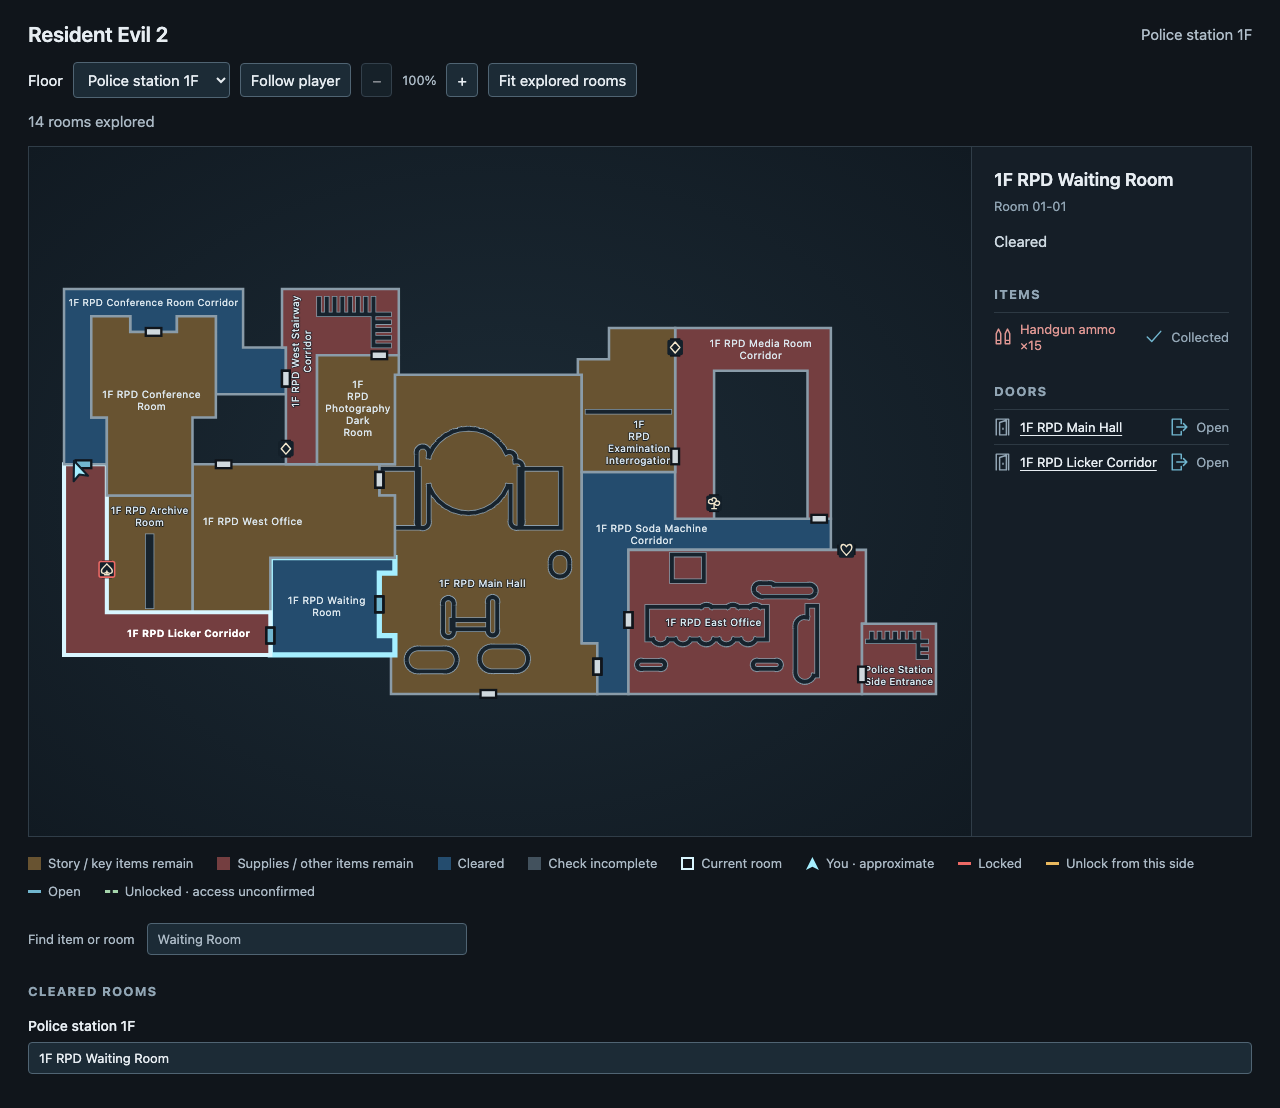
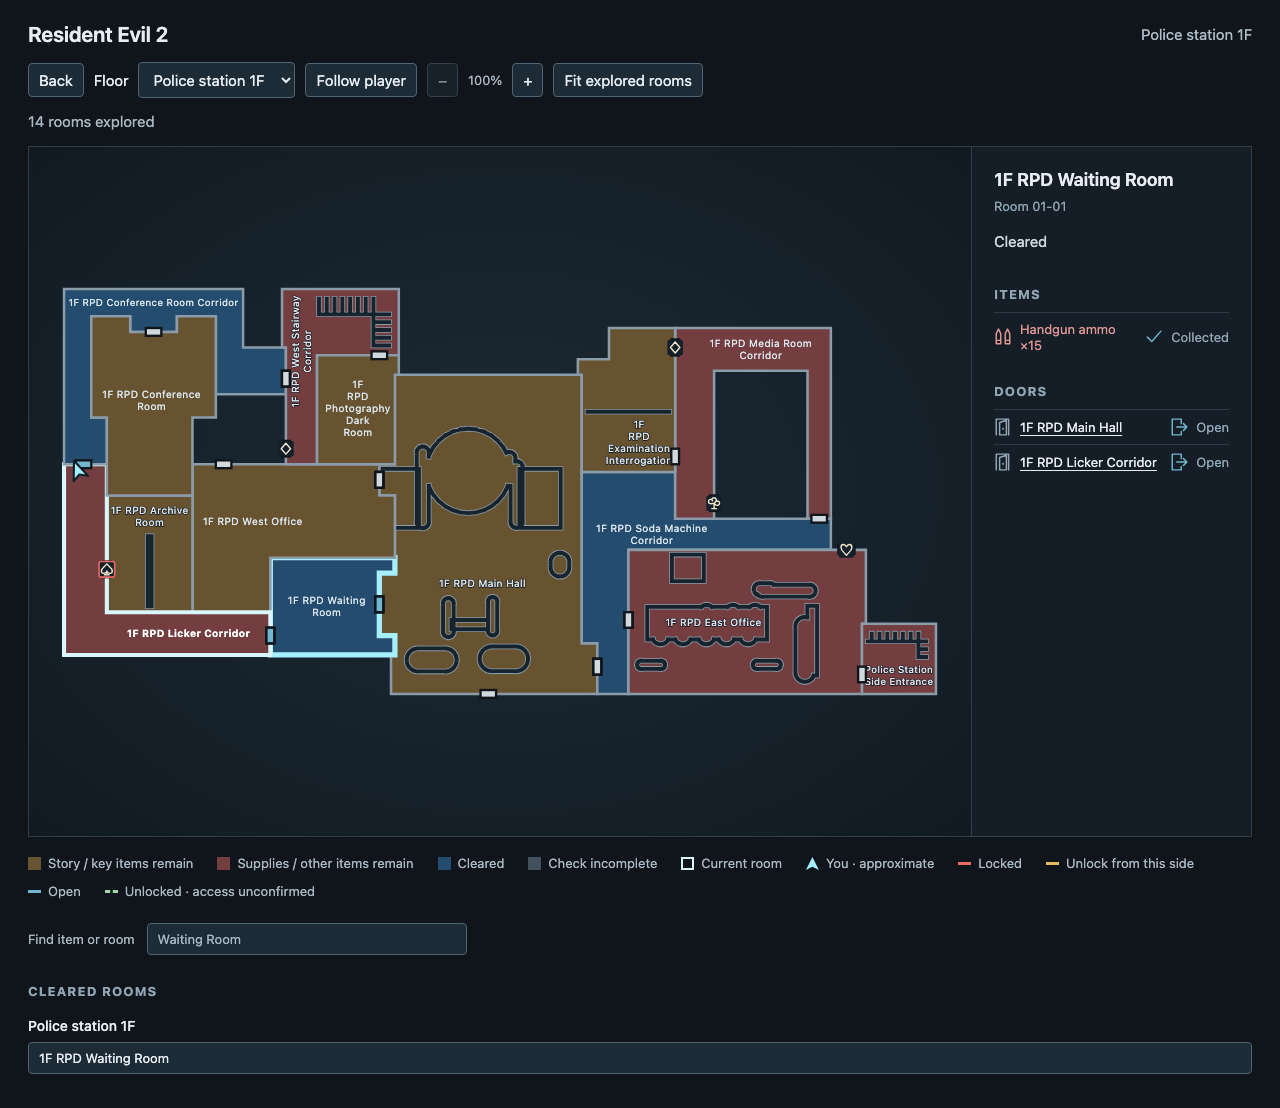
feat(ui): add back navigation for map inspections
Author: gpt-6.1-sol

Changed region(s): [[0.0, 0.0307, 0.5625, 0.0921]]

diff --git a/src/ui/map_view.py b/src/ui/map_view.py
@@ -290,7 +290,7 @@ li > span:last-child { color:#94a7b6; text-align:right; }
 </head>
 <body>
 <header><h1>__GAME_TITLE__</h1><span id="place"></span></header>
-<nav id="map-controls" aria-label="Map controls"><label for="floor">Floor</label><select id="floor" disabled></select><button id="current-room" type="button" aria-pressed="false" disabled>Follow player</button><span id="zoom-controls" role="group" aria-label="Map zoom"><button id="zoom-out" type="button" aria-label="Zoom out" disabled>−</button><output id="zoom-level" aria-label="Zoom level"></output><button id="zoom-in" type="button" aria-label="Zoom in" disabled>+</button></span><button id="fit-rooms" type="button" disabled>Fit explored rooms</button></nav>
+<nav id="map-controls" aria-label="Map controls"><button id="back-room" type="button" aria-label="Back to previous room" disabled>Back</button><label for="floor">Floor</label><select id="floor" disabled></select><button id="current-room" type="button" aria-pressed="false" disabled>Follow player</button><span id="zoom-controls" role="group" aria-label="Map zoom"><button id="zoom-out" type="button" aria-label="Zoom out" disabled>−</button><output id="zoom-level" aria-label="Zoom level"></output><button id="zoom-in" type="button" aria-label="Zoom in" disabled>+</button></span><button id="fit-rooms" type="button" disabled>Fit explored rooms</button></nav>
 <div id="status" role="status">Waiting for game.</div>
 <main>
 <div id="map-shell"><svg id="map" role="group" tabindex="-1" aria-label="Explored rooms" aria-description="Arrow keys move the map. Plus and minus zoom. Zero fits explored rooms. You can also drag or use the mouse wheel."></svg></div>
@@ -324,6 +324,7 @@ const ns = 'http://www.w3.org/2000/svg';
 let selected = null;
 let selectedArea = null;
 let floorView = {mode:'follow'};
+let viewHistory = [];
 let lastState = null;
 let lastReportedError = '';
 let overviewKey = '';
@@ -331,6 +332,7 @@ const labelLayouts = new Map();
 let viewport = {mode:'empty'};
 let pan = {mode:'idle'};
 let suppressMapClick = false;
+const backRoomButton = document.getElementById('back-room');
 const floorSelect = document.getElementById('floor');
 const itemSearch = document.getElementById('item-search');
 const currentRoomButton = document.getElementById('current-room');
@@ -347,11 +349,13 @@ itemSearch.addEventListener('keydown',event=>{
   }
 });
 floorSelect.addEventListener('change',()=>{
+  rememberView();
   floorView={mode:'browse',area:floorSelect.value};
   selected=null;
   draw(lastState);
 });
 currentRoomButton.addEventListener('click',()=>{
+  viewHistory=[];
   floorView={mode:'follow'};
   selected=null;
   endPan();
@@ -359,9 +363,37 @@ currentRoomButton.addEventListener('click',()=>{
   viewport={mode:'empty'};
   draw(lastState);
 });
+function rememberView() {
+  // Interrupted maps retain room outlines, but those clicks cannot add a readable view to history.
+  if(lastState===null || lastState.status!=='display') return;
+  if(selectedArea===null) throw new Error('Cannot record an uninitialized map view');
+  const room=svg.querySelector('.room.selected');
+  if(!room && selectedArea!==lastState.area) throw new Error('Only the current room can have an unoutlined view');
+  const view=room ? {kind:'outline',area:selectedArea,id:room.dataset.region} : {kind:'details',area:selectedArea,id:lastState.map_region,room:lastState.current};
+  // Snapshots retain display choices so Back can render fresh game-derived state.
+  viewHistory.push({...view,viewport:structuredClone(viewport)});
+}
+backRoomButton.addEventListener('click',()=>{
+  if(lastState===null || lastState.status!=='display' || viewHistory.length===0) throw new Error('Back requires readable inspection history');
+  const previous=viewHistory.pop();
+  endPan();
+  floorView={mode:'browse',area:previous.area};
+  selectedArea=previous.area;selected=previous.id;viewport=previous.viewport;
+  draw(lastState);
+  focusInspectedRoom();
+});
 function applyViewport() {
   const ready=lastState!==null && lastState.status==='display';
   const navigable=ready && viewport.mode!=='empty';
+  if(ready) {
+    const room=svg.querySelector('.room.selected'),id=room ? room.dataset.region : lastState.map_region;
+    // Reselecting the displayed view should not add a Back step.
+    while(viewHistory.length && viewHistory.at(-1).area===selectedArea && viewHistory.at(-1).id===id) viewHistory.pop();
+  }
+  // Disabling a focused control would otherwise drop keyboard focus onto the page.
+  const focusedBack=document.activeElement===backRoomButton;
+  backRoomButton.disabled=!ready || viewHistory.length===0;
+  if(focusedBack && backRoomButton.disabled) document.getElementById('room-name').focus({preventScroll:true});
   const following=ready && floorView.mode==='follow' && selected===null;
   currentRoomButton.setAttribute('aria-pressed',String(following));
   currentRoomButton.disabled=!ready || following && viewport.mode!=='manual';
@@ -622,6 +654,13 @@ function draw(state) {
     if(focusedDoor) document.getElementById('room-name').focus({preventScroll:true});
     return;
   }
+  const availableViews=new Map(Object.entries(state.explored_areas).map(([area,visits])=>[area,new Set(visits.map(visit=>visit.id))]));
+  viewHistory=viewHistory.filter(entry=>{
+    if(entry.kind==='outline') return availableViews.has(entry.area) && availableViews.get(entry.area).has(entry.id);
+    // Distinct unmapped rooms can share a region ID; details are valid only for that same current room.
+    if(entry.kind==='details') return entry.area===state.area && entry.id===state.map_region && entry.room===state.current;
+    throw new Error('Unknown inspection history view kind');
+  });
   if(floorView.mode==='browse' && !Object.hasOwn(state.explored_areas,floorView.area)) {
     // A new playthrough can remove the browsed floor. Resume following instead
     // of retaining geometry or verdicts from the previous exploration history.
@@ -739,10 +778,10 @@ function draw(state) {
     }
     label.setAttribute('transform','translate('+layout.center.join(' ')+') rotate('+layout.angle+') scale('+layout.scale+') translate('+layout.offset.join(' ')+')');
     setLines(layout.lines);
-    group.addEventListener('click',()=>{selected=id;draw(lastState);});
+    group.addEventListener('click',()=>{rememberView();selected=id;draw(lastState);});
     group.addEventListener('keydown',event=>{
       if(event.key==='Enter' || event.key===' ') {
-        event.preventDefault();selected=id;draw(lastState);
+        event.preventDefault();rememberView();selected=id;draw(lastState);
       }
     });
   }
@@ -882,6 +921,7 @@ function draw(state) {
   }
 }
 function inspectRoom(area,id) {
+  rememberView();
   endPan();
   floorView={mode:'browse',area};
   // A floor switch otherwise clears selection at the start of draw.
@@ -900,7 +940,11 @@ function inspectRoom(area,id) {
       applyViewport();
     }
   }
+  focusInspectedRoom();
+}
+function focusInspectedRoom() {
   document.querySelector('main').scrollIntoView({block:'start'});
+  const room=svg.querySelector('.room.selected');
   // An unoutlined current room has details but no SVG focus target.
   const target=room || document.getElementById('room-name');
   target.focus({preventScroll:true});

diff --git a/docs/testing/re2.md b/docs/testing/re2.md
@@ -2,6 +2,14 @@
 
 [Documentation index](../README.md) · [Testing index](../testing.md)
 
+## Back through room inspections
+
+The browser keeps session-local view identities and numeric viewport settings for room selections, door/item results and floor browsing. Back restores those views through the current publication. It stores no acquisition, completion, door or exploration values. Same-view repeats collapse; zoom, pan and live movement create no entry. Follow player clears the stack. Fresh reads prune unavailable views; interrupted tracking disables Back while retaining valid entries for recovery. Outlined views and current-room details are explicit alternatives, so distinct unmapped rooms cannot share an empty region identity.
+
+Run `bun tests/check_map_history_browser.mjs <python>`. Its RE1/RE2 fixtures cover fresh completion after Back, exact zoom/pan restoration, map selection, item results, cross-floor browsing and synthetic door inspection, repeated views, reset, interruption/recovery, removed history and unoutlined current-room return. Two development regressions expose lost focus when Back is disabled and a collision between different unmapped rooms; both now pass. The existing RE1, RE2, keyboard and refresh browser suites, 58 map/multi-area Python tests, scoped Ruff/formatting, local links and whitespace checks also pass. Private `/tmp/re-map-inspection-history-20261029/render-map.mjs` verifies desktop/mobile navigation from existing user exploration, returning through Back after zoom/drag with complete publication equality. The README image is refreshed. No native gameplay or tracking interpretation changes.
+
+Implemented and directly reviewed on 2026-10-29 by root, exact model `gpt-6.1-sol` from authoritative T3 runtime metadata. Review checks fresh-data admission, view identity, viewport restoration, history pruning, focus, disabled controls and responsive layout. External review providers remain disabled; no external endorsement is claimed.
+
 ## Door destination inspection
 
 Underlined destination names in Doors inspect rooms with an observed map view. A shared observed-room lookup and inspection action serve door buttons and all item/search results. They retain current-outline preference, floor switching, recentering, zoom bounds and room/details focus. Known names without recorded views remain text. Door access, acquisition and exploration stay unchanged. Focus is restored by source/target/observation identity after a live redraw, and returns to room details when the control disappears or tracking is interrupted.

diff --git a/README.md b/README.md
@@ -41,7 +41,7 @@ Door colors show access. Key symbols identify Sword, Armor, Shield and Helmet lo
 
 In RE2, a green open padlock shows a freshly confirmed unlock. A dashed frame means access is still unconfirmed; a red frame means the door is inactive. Unlock knowledge stays separate from being able to pass through the door now.
 
-Use **Floor** to browse explored floors. Click **Follow player** to stop inspecting a selected room and resume selecting each room you enter. The highlighted button shows when following is active.
+**Back** returns to the previous inspected room with its zoom and pan. Use **Floor** to browse explored floors. Click **Follow player** to stop inspecting a selected room and resume selecting each room you enter. The highlighted button shows when following is active.
 
 Use the mouse wheel or **+ / −** buttons to zoom, and drag the map to move it. **Fit explored rooms** shows the whole explored floor again. With the map focused, arrow keys move the view, plus/minus zoom, and zero fits explored rooms. Use Tab to focus the map or rooms, then Enter or Space to inspect a focused room. See [map controls](docs/map-controls.md).
 
@@ -71,4 +71,4 @@ python3 tools/track.py --profile profiles/re2_claire_b_slus00756.json --map
 
 Each revision and scenario has a separate exploration history. Keep RetroAchievements in Casual/Softcore mode when using the tracker and savestates. The [RE2 guide](docs/re2.md) lists the exact disc identities and validation limits.
 
-![RE2 map with cleared-room search and inspectable door destinations](docs/images/re2-map.png)
+![RE2 map with Back navigation, room search and inspectable door destinations](docs/images/re2-map.png)

diff --git a/docs/re2.md b/docs/re2.md
@@ -18,7 +18,7 @@ Default histories are `.local/re2-leon-a-slus00748.json` and `.local/re2-claire-
 
 Match the existing tracker behavior: spatial floor plans revealed by entering rooms, room names, actual facing, floor browsing, zoom and pan, persistent exploration isolated by game/revision/scenario/playthrough, remaining items, separate unresolved checks, game-derived door access, and fresh item/door/story state after savestate changes. Exploration survives earlier savestates; acquired items and unlocked doors must rewind with the game.
 
-The shared [map controls](map-controls.md) support keyboard panning, zoom and fit, alongside mouse controls and floor browsing.
+The shared [map controls](map-controls.md) support keyboard panning, zoom and fit, alongside mouse controls and floor browsing. [Back](map-controls.md#return-to-previous-inspections) retraces manual inspections with the chosen zoom/pan and fresh game state.
 
 [Shared-slot item presence](research/re2/shared-item-slots.md) reuses proven scenario exclusions when checking conflicting pickup identities. It recovers two Leon and three Claire remaining-item rules without deleting raw declarations or weakening live contradiction checks. One Leon pickup has native collection, departure/reentry and four exact savestate restores. A second has native collection and two current-state restores, with departure/reentry unverified. The Claire outcomes remain source-validated.
 

diff --git a/docs/map-controls.md b/docs/map-controls.md
@@ -23,3 +23,9 @@ Use **Find item or room** to filter remaining items and unresolved checks by the
 ## Inspect connected rooms
 
 Select an underlined destination in **Doors** to inspect its explored room. The tracker switches floors when needed and centers the recorded outline, retaining zoom when it fits. The room details receive focus when the current room has no outline. Door access continues to reflect game state. Destinations without a recorded map view stay as text. **Follow player** resumes tracking the room you enter.
+
+## Return to previous inspections
+
+**Back** retraces room selections, door/item results and floor browsing in the current browser session. It restores the previous zoom and pan while showing fresh items, completion and door access. Zooming, panning and live player movement do not add entries. Repeatedly selecting the same view adds no extra step. **Follow player** clears this inspection history and resumes following.
+
+Only views still available in explored history remain accessible. A room without an outline can be revisited through Back while it remains the same current room. Back is disabled during interrupted tracking and recovers valid entries when tracking returns.
